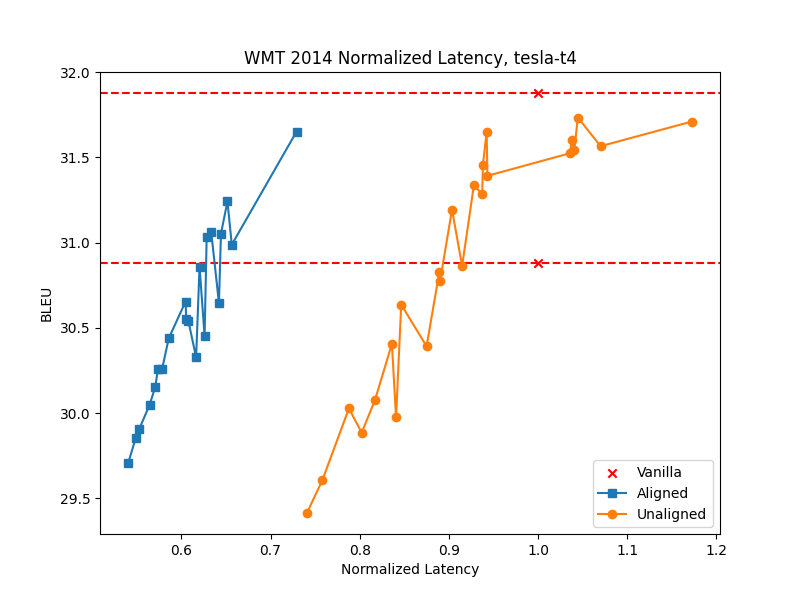
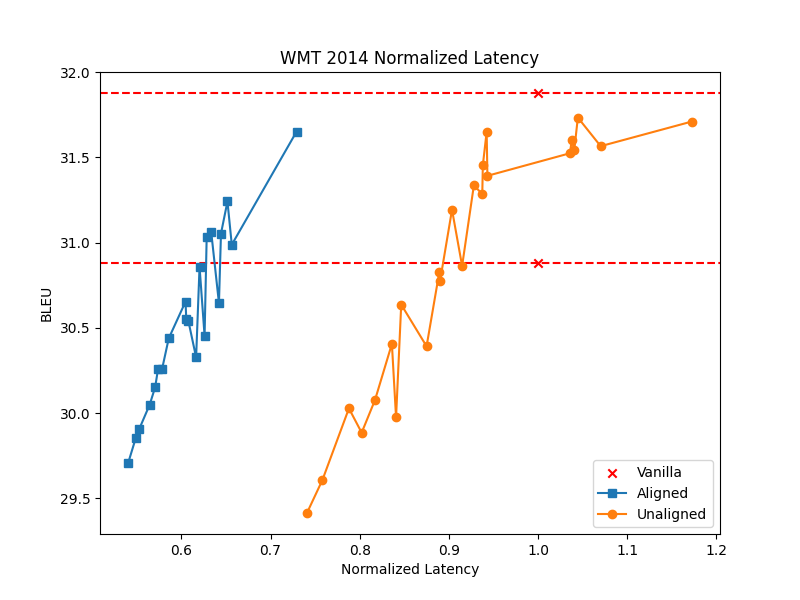
Refactor show_speedup

Changed region(s): [[0.3125, 0.06, 0.7188, 0.12]]

diff --git a/src/visualizations/show_performance.py b/src/visualizations/show_performance.py
@@ -62,7 +62,7 @@ def show_performance(experiment, hardware="tesla-t4", speedup=True):
     measure_func, measure_label = get_measure(speedup)
 
     plt.figure(figsize=(8, 6))
-    plt.title(f"{TITLES[experiment]} {measure_label}, {hardware}")
+    plt.title(f"{TITLES[experiment]} {measure_label}")
     plt.xlabel(f"{measure_label}")
     plt.ylabel(metric_label)
 
